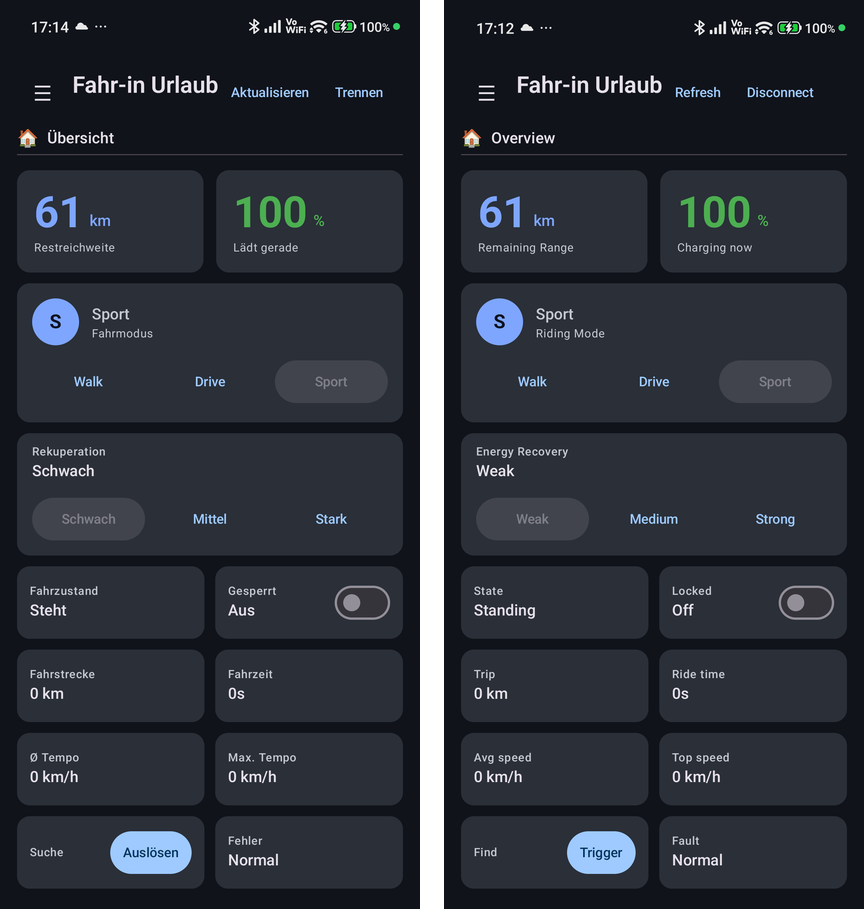
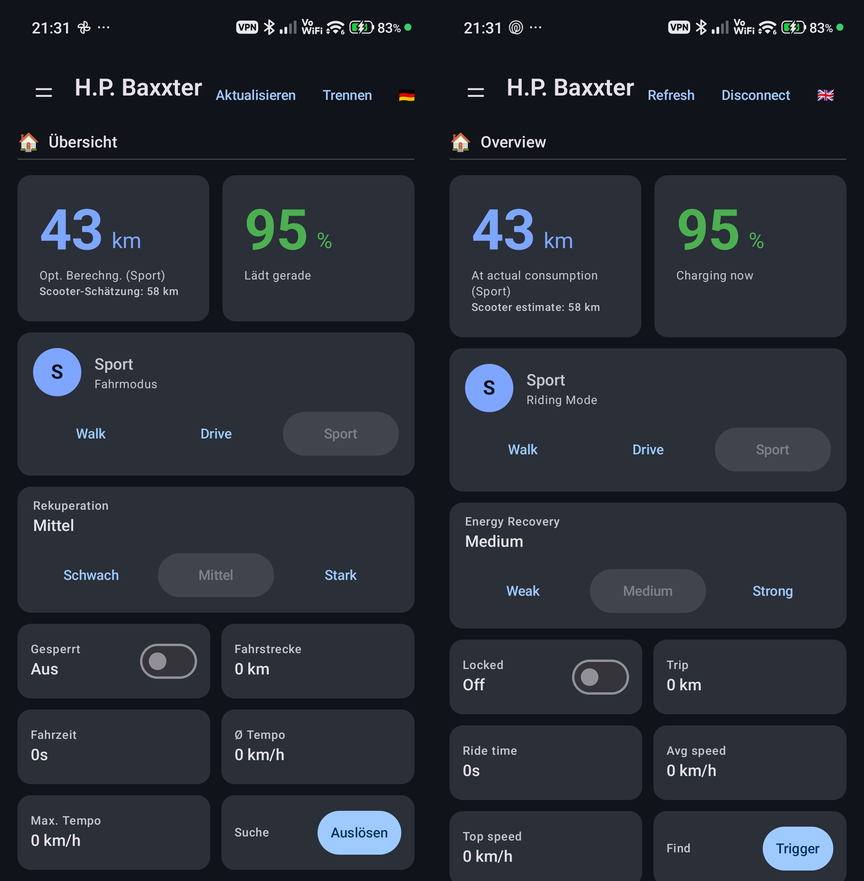
docs: update range/consumption explanation and overview screenshot
- Clarify that the own-consumption headline card reflects whichever riding
  mode is currently active (switches automatically with it), and document the
  "Reset history" button (Verlauf tab) for discrete events like a battery
  replacement - the 300 km window already handles gradual wear on its own.
- Update the connect section (added earlier) is unaffected here; this covers
  only the range/consumption wording gap.
- Replace the overview screenshot with a current one showing the new
  prominent range card ("At actual consumption (Sport)" / scooter estimate as
  subtitle) and the trimmed tile grid, MAC address redacted.

Changed region(s): [[0.0, 0.0, 1.0, 1.0], [0.7812, 0.0, 0.9688, 0.0613], [0.0312, 0.0, 0.0938, 0.0613]]

diff --git a/README.de.md b/README.de.md
@@ -194,12 +194,15 @@ ist ein Hobbyprojekt.
   Reichweitenschätzung immer nur den aktuellen Prozentwert dadurch teilt. Sobald ein Modus 5 km aus den letzten
   300 km hat (ältere Fahrten fallen aus diesem Fenster heraus, so fällt ein alternder Akku oder abgefahrene Reifen
   von selbst auf, statt für immer mit hineinzurechnen), zeigt die große Reichweiten-Kachel der Übersicht diesen
-  Wert statt der Scooter-Schätzung, mit der Scooter-Schätzung klein zum Vergleich darunter. **Fahrten ohne
-  Verbindung werden nicht aufgezeichnet**; wer das Handy nicht während der Fahrt verbindet, sieht immer nur die
-  Schätzung des Scooters (Firmware). Der Schalter in den App-Einstellungen („Eigene Verbrauchsanalyse", standardmäßig
-  an) entscheidet, welcher der beiden Werte groß angezeigt wird: an wählt den eigenen, sobald genug Daten da sind,
-  aus zeigt immer die Scooter-Schätzung und zeichnet nichts auf. Der Tab „Verlauf" listet ihn je Modus auf und
-  führt außerdem ein tägliches Akku-Gesundheits-Log (Gesundheit, Zyklen, Kilometerstand).
+  Wert statt der Scooter-Schätzung — für den gerade aktiven Fahrmodus, wechselt also automatisch mit diesem mit —
+  mit der Scooter-Schätzung klein zum Vergleich darunter. **Fahrten ohne Verbindung werden nicht aufgezeichnet**;
+  wer das Handy nicht während der Fahrt verbindet, sieht immer nur die Schätzung des Scooters (Firmware). Der
+  Schalter in den App-Einstellungen („Eigene Verbrauchsanalyse", standardmäßig an) entscheidet, welcher der beiden
+  Werte groß angezeigt wird: an wählt den eigenen, sobald genug Daten da sind, aus zeigt immer die
+  Scooter-Schätzung und zeichnet nichts auf. Der Tab „Verlauf" listet ihn je Modus auf und führt außerdem ein
+  tägliches Akku-Gesundheits-Log (Gesundheit, Zyklen, Kilometerstand); ein Knopf „Verlauf zurücksetzen" dort löscht
+  alle aufgezeichnete Strecke/Verbrauch für einen Neustart, z.B. nach einem Akkutausch — das 300-km-Fenster fängt
+  allmähliche Alterung schon von selbst ab, das ist nur für einen plötzlichen, einmaligen Wechsel gedacht.
 - **Diagnose kopieren**: Ein Knopf in den App-Einstellungen kopiert App-, Handy- und Scooter-Modell, Einstellungen und die
   letzten Fehlermeldungen (ohne MAC-Adresse, Schlüssel und Dokumente) für eine Fehlermeldung.
 - **Dokumente senden**: Ein Tipp schickt die Dokumente eines Scooters (ohne Schlüssel) an Familienmitglieder. Dort

diff --git a/README.md b/README.md
@@ -183,12 +183,15 @@ no promise of support or of a schedule — this is a hobby project.
   load): the percentage the scooter already reports is enough, since the range estimate only ever divides the
   *current* percentage by it. Once a mode has 5 km recorded within the last 300 km (older rides roll out of that
   window, so an ageing battery or worn tyres show up on their own instead of being averaged in forever), the
-  overview's headline range card shows this instead of the scooter's own estimate, with the scooter's own value
-  named underneath for comparison. **Rides without a connection are not recorded**; if you do not connect during
-  rides, you only ever see the scooter's own (firmware) estimate. The switch in the app settings ("Own consumption
-  analysis", on by default) decides which of the two is the prominent one: on picks your own once there is enough
-  data, off always shows the scooter's estimate and records nothing. The Verlauf (history) tab lists it per mode
-  and also keeps a daily battery health log (health, cycles, odometer).
+  overview's headline range card shows this instead of the scooter's own estimate — for whichever riding mode is
+  currently active, switching automatically along with it — with the scooter's own value named underneath for
+  comparison. **Rides without a connection are not recorded**; if you do not connect during rides, you only ever see
+  the scooter's own (firmware) estimate. The switch in the app settings ("Own consumption analysis", on by default)
+  decides which of the two is the prominent one: on picks your own once there is enough data, off always shows the
+  scooter's estimate and records nothing. The Verlauf (history) tab lists it per mode and also keeps a daily battery
+  health log (health, cycles, odometer); a "Reset history" button there clears all recorded distance/consumption for
+  a fresh start after something like a battery replacement — the 300 km window already handles gradual wear on its
+  own, this is only for a sudden, one-off change.
 - **Copy diagnostics**: one button in the app settings copies app, phone and scooter model, settings and the latest
   error messages (no MAC address, keys or documents) for a bug report.
 - **Send documents**: one tap sends a scooter's documents (without the key) to family members. On their phone the
